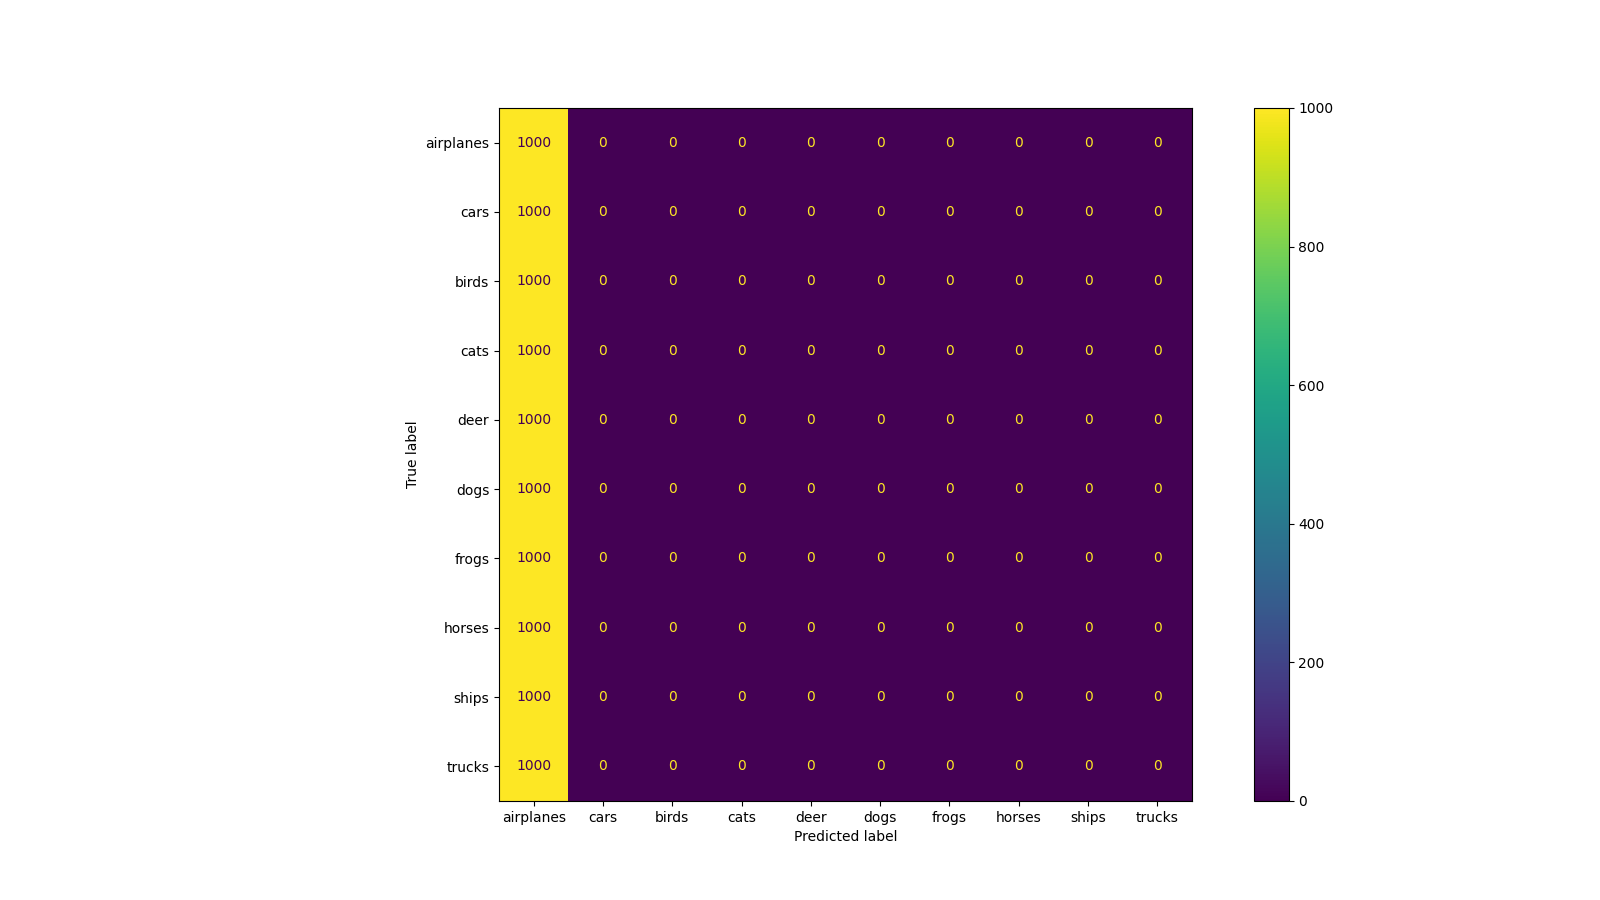
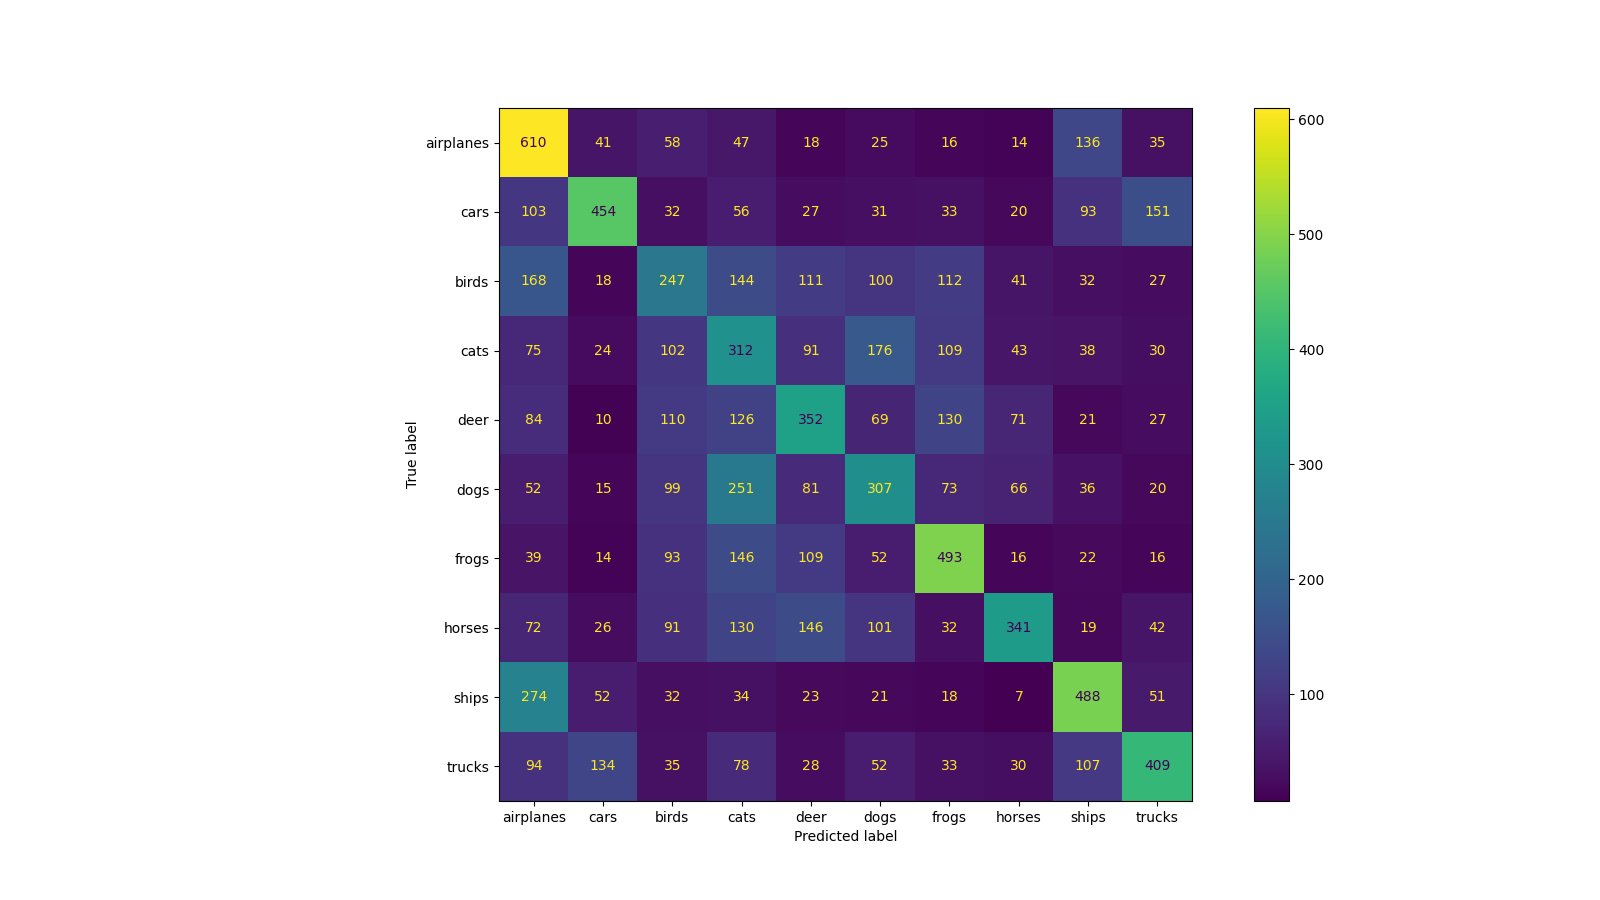
running with 10% fine tuning labels

diff --git a/runCIFAR.py b/runCIFAR.py
@@ -17,7 +17,7 @@ from SimCLR.Models import ResNetSimCLR
 
 import matplotlib.pyplot as plt
 from sklearn.metrics import confusion_matrix, ConfusionMatrixDisplay
-
+import numpy as np
 
 def test_finetune():
   # fine tuning transform
@@ -84,6 +84,7 @@ def validateCIFAR(modelpath):
 def end_to_end():
   s=1
   input_shape = (96,96,3)  
+  tune_per = .1
 
   # set up training data
   train_trans = TrainDataAugmentation(s, input_shape)
@@ -94,6 +95,8 @@ def end_to_end():
     transform=SimCLRDataTransform(train_aug)
   )
 
+  train_n = len(train_data)
+
   # set up tuning data
   tune_trans = TuneDataAugmentation(s, input_shape)
   tune_aug = tune_trans.augment()
@@ -102,6 +105,13 @@ def end_to_end():
     root='Data', train=True, download=True, 
     transform=TuneDataTransform(tune_aug)
   )
+
+  tune_indices = np.random.choice(train_n, int(train_n*tune_per), replace=False)
+  train_indices = [i for i in range(train_n) if i not in tune_indices]
+  tune_data = [tune_data[i] for i in tune_indices]
+  train_data = [train_data[i] for i in train_indices]
+  print("Training Size:", len(train_data))
+  print("Tuning Size:", len(tune_data))
 
   # set up val data
   val_data = tv.datasets.CIFAR10(

diff --git a/SimCLR/Makers.py b/SimCLR/Makers.py
@@ -49,7 +49,7 @@ class Train(BaseModel):
   def return_model(self):
     return self.model.resnet.state_dict(), self.model.projection_head.layers[0].state_dict()
   
-  def train(self, dataloader, temperature, ckpt_path, n_epochs=90, 
+  def train(self, dataloader, temperature, ckpt_path, n_epochs=91, 
           save_size=10):
     
     # trainers
@@ -226,7 +226,7 @@ class Validate(BaseModel):
 
 class SimCLR:
   def __init__(self, model=None, in_channels=3, n_classes=10, 
-              train_batch_size=1024, tune_batch_size=10, train_temp=.5):
+              train_batch_size=256, tune_batch_size=10, train_temp=.5):
 
     if model is None:
       self.trainer = Train(
